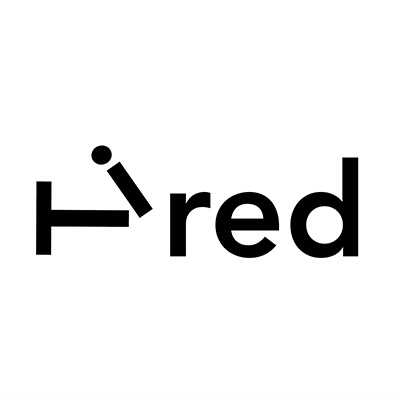
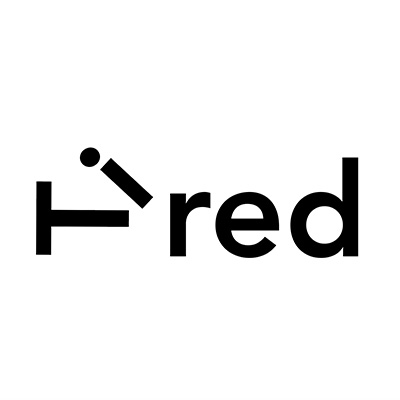
ricarica tutto

Changed region(s): [[0.18, 0.36, 0.33, 0.48], [0.3, 0.45, 0.39, 0.54]]

diff --git a/Esercizio_2/logo.html b/Esercizio_2/logo.html
@@ -3,7 +3,7 @@
 <head>
 	<meta charset="UTF-8"/>
 	<meta name="author" content="Nome Cognome" />
-	<title>Rotazione 3</title>
+	<title>Esercizio_2</title>
 	<style type="text/css">
 		html{
 			height:100%;
@@ -23,15 +23,15 @@
 <body>
 	<script type="module">
 
-		import Sequencer from './js/sequencer.min.js';
+		import Sequencer from './sequencer.min.js';
 
 		Sequencer.make({
 			canvas       	 : document.querySelector("canvas"),
 			from         	 : "img/1.jpg",
-			to           	 : "img/17.jpg",
+			to           	 : "img/16.jpg",
 			playMode     	 : "auto",
 			loop         	 : "loop", // "pong"
-			interval     	 : 333,
+			interval     	 : 60,
 		})
 	</script>
 </body>

diff --git a/README.md b/README.md
@@ -15,8 +15,10 @@ CORSO DI GRAFICA IN MOVIMENTO SUPSI 2024
  https://gattoviola.github.io/GIM/Esercizio_1B/index.html
 
 #esercizio 1C
+ https://gattoviola.github.io/GIM/Esercizio_1C/README.md
 
 #esercizio 2
+https://gattoviola.github.io/GIM/Esercizio_2/logo.html
 
 #esercizio 3A
  https://gattoviola.github.io/GIM/Esercizio_3A/orologio_analogico.html
